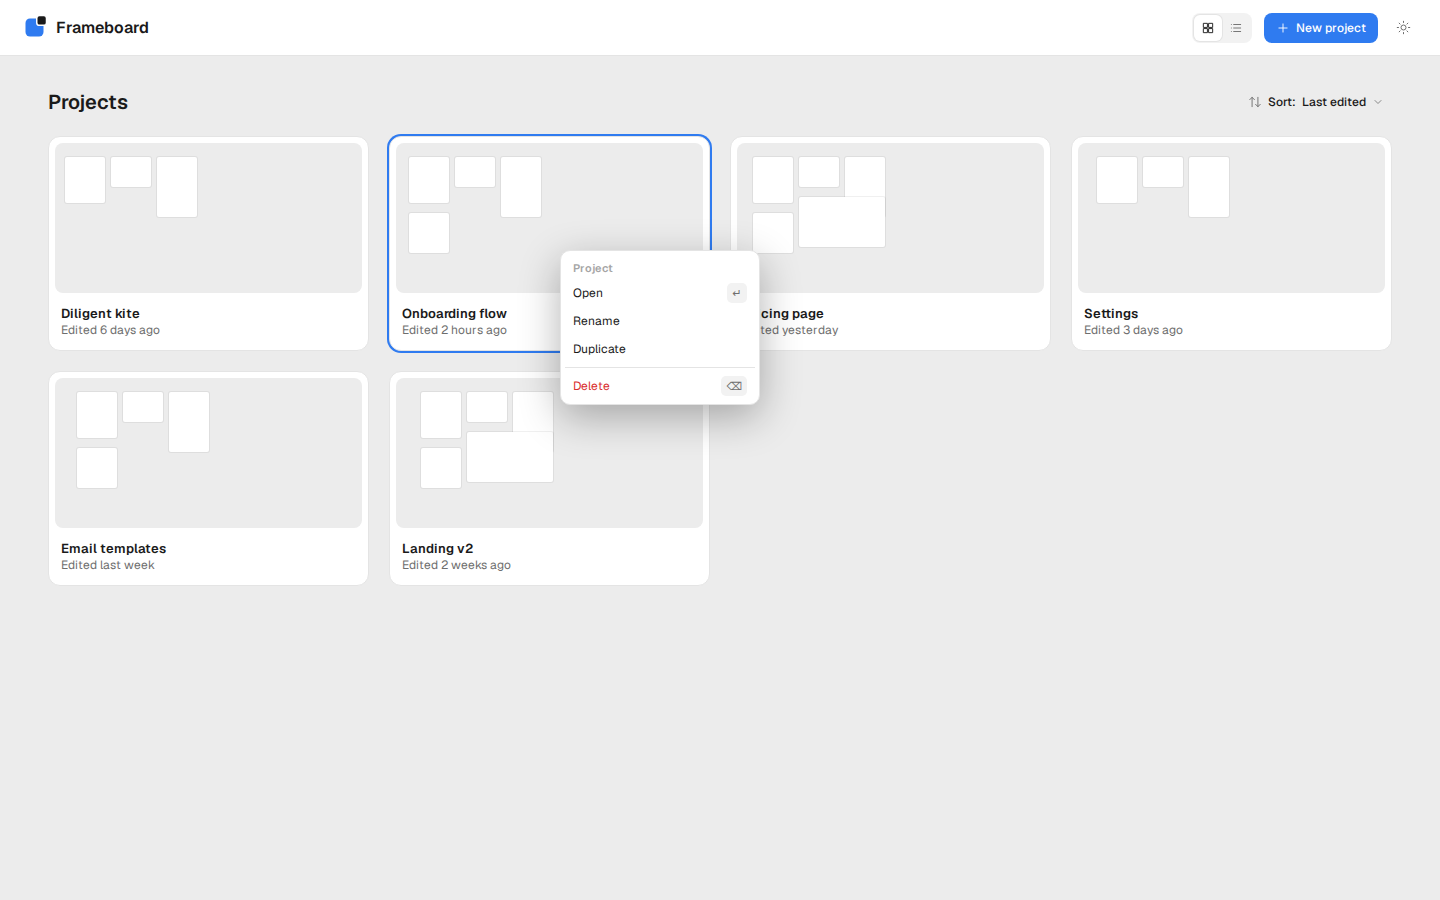
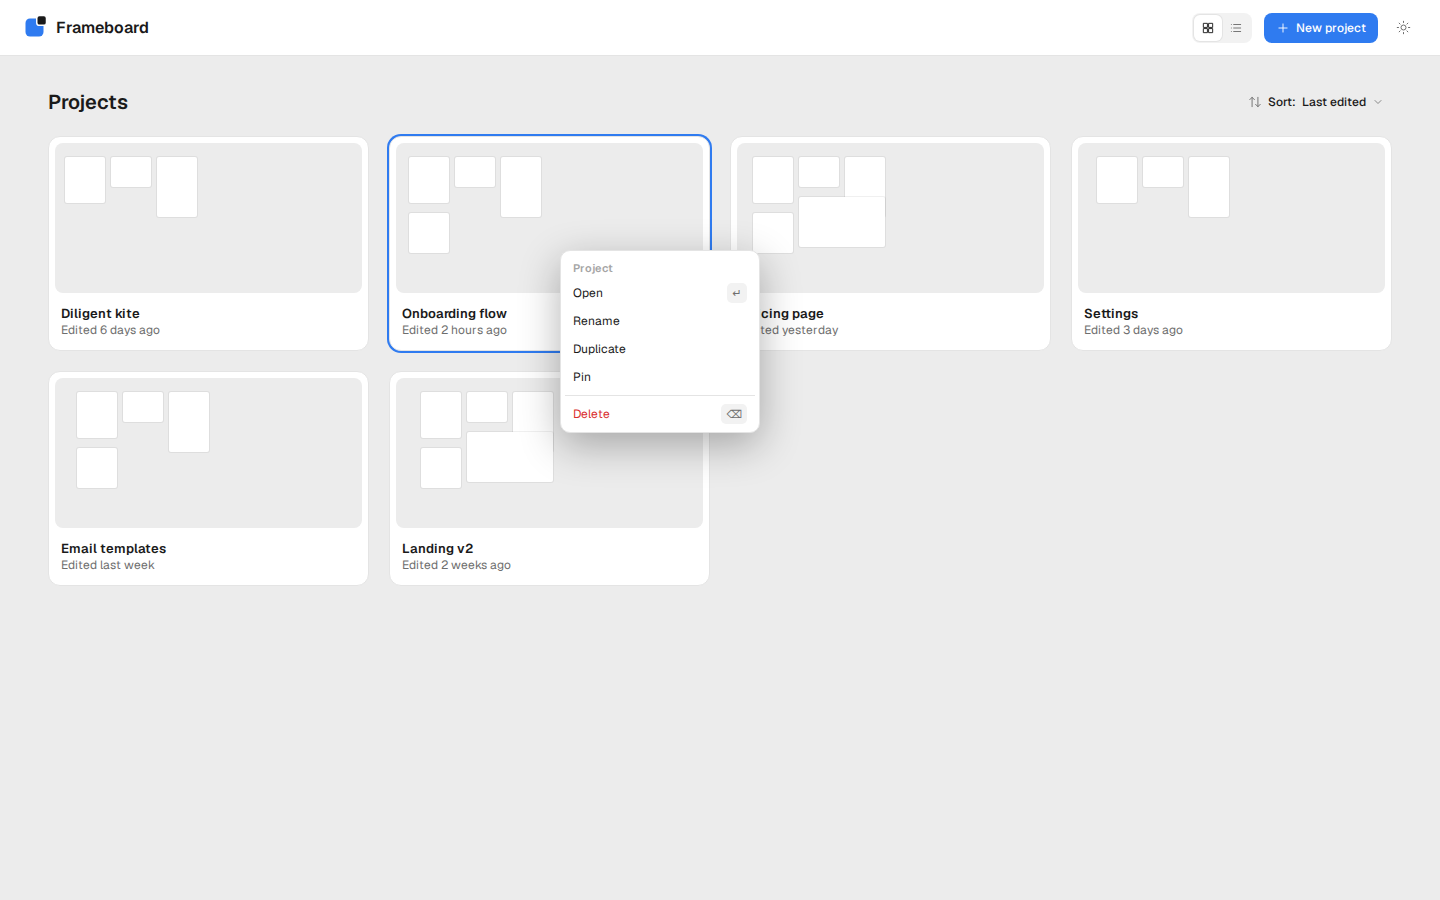
docs(design): draw Pin in the home card menu reference

Changed region(s): [[0.375, 0.4044, 0.5312, 0.5289]]

diff --git a/canon/design/menus/home.html b/canon/design/menus/home.html
@@ -209,6 +209,6 @@ button{font:inherit;color:inherit;background:none;border:0;cursor:default}
 .pill{left:calc(240px + (100% - 480px)/2)}</style>
 </head>
 <body>
-<div class="home"><header class="htop"><span class="brand"><svg class="mk" viewBox="0 0 64 64" width="24" height="24"><rect x="4" y="12" width="48" height="48" rx="12" fill="var(--accent)"/><rect x="34" y="4" width="26" height="26" rx="7" fill="var(--text)" stroke="var(--panel)" stroke-width="4"/></svg>Frameboard</span><div class="vt"><button class="on"><svg class="ic" width="14" height="14" viewBox="0 0 24 24" fill="none" stroke="currentColor" stroke-width="1.6" stroke-linecap="round" stroke-linejoin="round"><path d="M4 4h7v7H4zM13 4h7v7h-7zM4 13h7v7H4zM13 13h7v7h-7z"/></svg></button><button class=""><svg class="ic" width="14" height="14" viewBox="0 0 24 24" fill="none" stroke="currentColor" stroke-width="1.6" stroke-linecap="round" stroke-linejoin="round"><path d="M8 6h12M8 12h12M8 18h12M4 6h.01M4 12h.01M4 18h.01"/></svg></button></div><button class="btn primary"><svg class="ic" width="14" height="14" viewBox="0 0 24 24" fill="none" stroke="currentColor" stroke-width="1.6" stroke-linecap="round" stroke-linejoin="round"><path d="M12 5v14M5 12h14"/></svg>New project</button><button class="ib"><svg data-theme-only="dark" class="ic" width="15" height="15" viewBox="0 0 24 24" fill="none" stroke="currentColor" stroke-width="1.6" stroke-linecap="round" stroke-linejoin="round"><path d="M20 14.5A8 8 0 019.5 4a8 8 0 1010.5 10.5z"/></svg><svg data-theme-only="light" class="ic" width="15" height="15" viewBox="0 0 24 24" fill="none" stroke="currentColor" stroke-width="1.6" stroke-linecap="round" stroke-linejoin="round"><circle cx="12" cy="12" r="4"/><path d="M12 2v2M12 20v2M2 12h2M20 12h2M5 5l1.5 1.5M17.5 17.5L19 19M5 19l1.5-1.5M17.5 6.5L19 5"/></svg></button></header><main class="hbody"><div class="ptitle"><h1>Projects</h1><button class="sortbtn"><svg class="ic" width="14" height="14" viewBox="0 0 24 24" fill="none" stroke="currentColor" stroke-width="1.6" stroke-linecap="round" stroke-linejoin="round"><path d="m21 16-4 4-4-4"/><path d="M17 20V4"/><path d="m3 8 4-4 4 4"/><path d="M7 4v16"/></svg>Sort: <b>Last edited</b><svg class="ic" width="12" height="12" viewBox="0 0 24 24" fill="none" stroke="currentColor" stroke-width="1.6" stroke-linecap="round" stroke-linejoin="round"><path d="m6 9 6 6 6-6"/></svg></button></div><div class="cards"><div class="card"><div class="thumb"><i style="left:10px;top:14px;width:40px;height:46px"></i><i style="left:56px;top:14px;width:40px;height:30px"></i><i style="left:102px;top:14px;width:40px;height:60px"></i></div><div class="cmeta"><b>Diligent kite</b><span>Edited 6 days ago</span></div></div><div class="card hov"><div class="thumb"><i style="left:13px;top:14px;width:40px;height:46px"></i><i style="left:59px;top:14px;width:40px;height:30px"></i><i style="left:105px;top:14px;width:40px;height:60px"></i><i style="left:13px;top:70px;width:40px;height:40px"></i></div><div class="cmeta"><b>Onboarding flow</b><span>Edited 2 hours ago</span></div></div><div class="card"><div class="thumb"><i style="left:16px;top:14px;width:40px;height:46px"></i><i style="left:62px;top:14px;width:40px;height:30px"></i><i style="left:108px;top:14px;width:40px;height:60px"></i><i style="left:16px;top:70px;width:40px;height:40px"></i><i style="left:62px;top:54px;width:86px;height:50px"></i></div><div class="cmeta"><b>Pricing page</b><span>Edited yesterday</span></div></div><div class="card"><div class="thumb"><i style="left:19px;top:14px;width:40px;height:46px"></i><i style="left:65px;top:14px;width:40px;height:30px"></i><i style="left:111px;top:14px;width:40px;height:60px"></i></div><div class="cmeta"><b>Settings</b><span>Edited 3 days ago</span></div></div><div class="card"><div class="thumb"><i style="left:22px;top:14px;width:40px;height:46px"></i><i style="left:68px;top:14px;width:40px;height:30px"></i><i style="left:114px;top:14px;width:40px;height:60px"></i><i style="left:22px;top:70px;width:40px;height:40px"></i></div><div class="cmeta"><b>Email templates</b><span>Edited last week</span></div></div><div class="card"><div class="thumb"><i style="left:25px;top:14px;width:40px;height:46px"></i><i style="left:71px;top:14px;width:40px;height:30px"></i><i style="left:117px;top:14px;width:40px;height:60px"></i><i style="left:25px;top:70px;width:40px;height:40px"></i><i style="left:71px;top:54px;width:86px;height:50px"></i></div><div class="cmeta"><b>Landing v2</b><span>Edited 2 weeks ago</span></div></div></div></main></div><div class="menu" style="left:560px;top:250px;width:200px"><div class="mtitle">Project</div><div class="mi ">Open<span class="kbd"><span>↵</span></span></div><div class="mi ">Rename</div><div class="mi ">Duplicate</div><div class="msep"></div><div class="mi danger">Delete<span class="kbd"><span>⌫</span></span></div></div>
+<div class="home"><header class="htop"><span class="brand"><svg class="mk" viewBox="0 0 64 64" width="24" height="24"><rect x="4" y="12" width="48" height="48" rx="12" fill="var(--accent)"/><rect x="34" y="4" width="26" height="26" rx="7" fill="var(--text)" stroke="var(--panel)" stroke-width="4"/></svg>Frameboard</span><div class="vt"><button class="on"><svg class="ic" width="14" height="14" viewBox="0 0 24 24" fill="none" stroke="currentColor" stroke-width="1.6" stroke-linecap="round" stroke-linejoin="round"><path d="M4 4h7v7H4zM13 4h7v7h-7zM4 13h7v7H4zM13 13h7v7h-7z"/></svg></button><button class=""><svg class="ic" width="14" height="14" viewBox="0 0 24 24" fill="none" stroke="currentColor" stroke-width="1.6" stroke-linecap="round" stroke-linejoin="round"><path d="M8 6h12M8 12h12M8 18h12M4 6h.01M4 12h.01M4 18h.01"/></svg></button></div><button class="btn primary"><svg class="ic" width="14" height="14" viewBox="0 0 24 24" fill="none" stroke="currentColor" stroke-width="1.6" stroke-linecap="round" stroke-linejoin="round"><path d="M12 5v14M5 12h14"/></svg>New project</button><button class="ib"><svg data-theme-only="dark" class="ic" width="15" height="15" viewBox="0 0 24 24" fill="none" stroke="currentColor" stroke-width="1.6" stroke-linecap="round" stroke-linejoin="round"><path d="M20 14.5A8 8 0 019.5 4a8 8 0 1010.5 10.5z"/></svg><svg data-theme-only="light" class="ic" width="15" height="15" viewBox="0 0 24 24" fill="none" stroke="currentColor" stroke-width="1.6" stroke-linecap="round" stroke-linejoin="round"><circle cx="12" cy="12" r="4"/><path d="M12 2v2M12 20v2M2 12h2M20 12h2M5 5l1.5 1.5M17.5 17.5L19 19M5 19l1.5-1.5M17.5 6.5L19 5"/></svg></button></header><main class="hbody"><div class="ptitle"><h1>Projects</h1><button class="sortbtn"><svg class="ic" width="14" height="14" viewBox="0 0 24 24" fill="none" stroke="currentColor" stroke-width="1.6" stroke-linecap="round" stroke-linejoin="round"><path d="m21 16-4 4-4-4"/><path d="M17 20V4"/><path d="m3 8 4-4 4 4"/><path d="M7 4v16"/></svg>Sort: <b>Last edited</b><svg class="ic" width="12" height="12" viewBox="0 0 24 24" fill="none" stroke="currentColor" stroke-width="1.6" stroke-linecap="round" stroke-linejoin="round"><path d="m6 9 6 6 6-6"/></svg></button></div><div class="cards"><div class="card"><div class="thumb"><i style="left:10px;top:14px;width:40px;height:46px"></i><i style="left:56px;top:14px;width:40px;height:30px"></i><i style="left:102px;top:14px;width:40px;height:60px"></i></div><div class="cmeta"><b>Diligent kite</b><span>Edited 6 days ago</span></div></div><div class="card hov"><div class="thumb"><i style="left:13px;top:14px;width:40px;height:46px"></i><i style="left:59px;top:14px;width:40px;height:30px"></i><i style="left:105px;top:14px;width:40px;height:60px"></i><i style="left:13px;top:70px;width:40px;height:40px"></i></div><div class="cmeta"><b>Onboarding flow</b><span>Edited 2 hours ago</span></div></div><div class="card"><div class="thumb"><i style="left:16px;top:14px;width:40px;height:46px"></i><i style="left:62px;top:14px;width:40px;height:30px"></i><i style="left:108px;top:14px;width:40px;height:60px"></i><i style="left:16px;top:70px;width:40px;height:40px"></i><i style="left:62px;top:54px;width:86px;height:50px"></i></div><div class="cmeta"><b>Pricing page</b><span>Edited yesterday</span></div></div><div class="card"><div class="thumb"><i style="left:19px;top:14px;width:40px;height:46px"></i><i style="left:65px;top:14px;width:40px;height:30px"></i><i style="left:111px;top:14px;width:40px;height:60px"></i></div><div class="cmeta"><b>Settings</b><span>Edited 3 days ago</span></div></div><div class="card"><div class="thumb"><i style="left:22px;top:14px;width:40px;height:46px"></i><i style="left:68px;top:14px;width:40px;height:30px"></i><i style="left:114px;top:14px;width:40px;height:60px"></i><i style="left:22px;top:70px;width:40px;height:40px"></i></div><div class="cmeta"><b>Email templates</b><span>Edited last week</span></div></div><div class="card"><div class="thumb"><i style="left:25px;top:14px;width:40px;height:46px"></i><i style="left:71px;top:14px;width:40px;height:30px"></i><i style="left:117px;top:14px;width:40px;height:60px"></i><i style="left:25px;top:70px;width:40px;height:40px"></i><i style="left:71px;top:54px;width:86px;height:50px"></i></div><div class="cmeta"><b>Landing v2</b><span>Edited 2 weeks ago</span></div></div></div></main></div><div class="menu" style="left:560px;top:250px;width:200px"><div class="mtitle">Project</div><div class="mi ">Open<span class="kbd"><span>↵</span></span></div><div class="mi ">Rename</div><div class="mi ">Duplicate</div><div class="mi ">Pin</div><div class="msep"></div><div class="mi danger">Delete<span class="kbd"><span>⌫</span></span></div></div>
 </body>
 </html>
